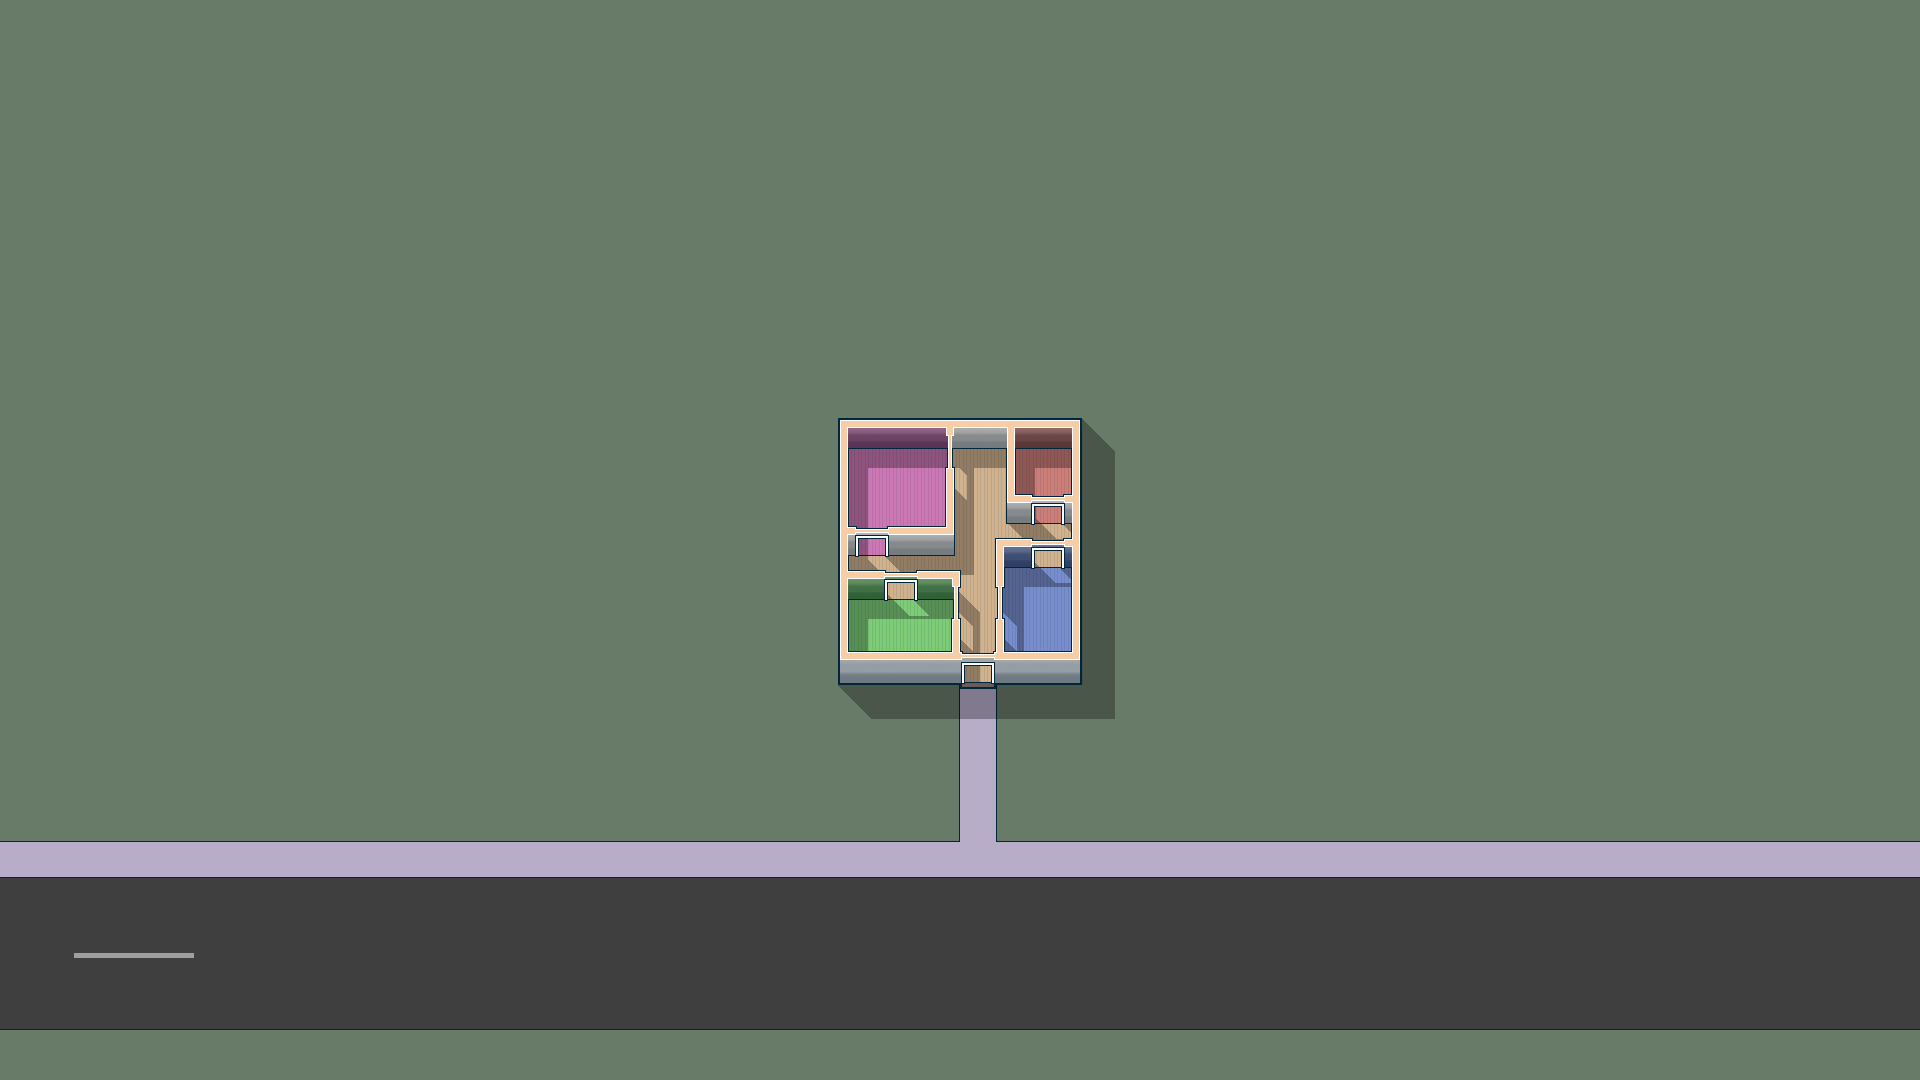
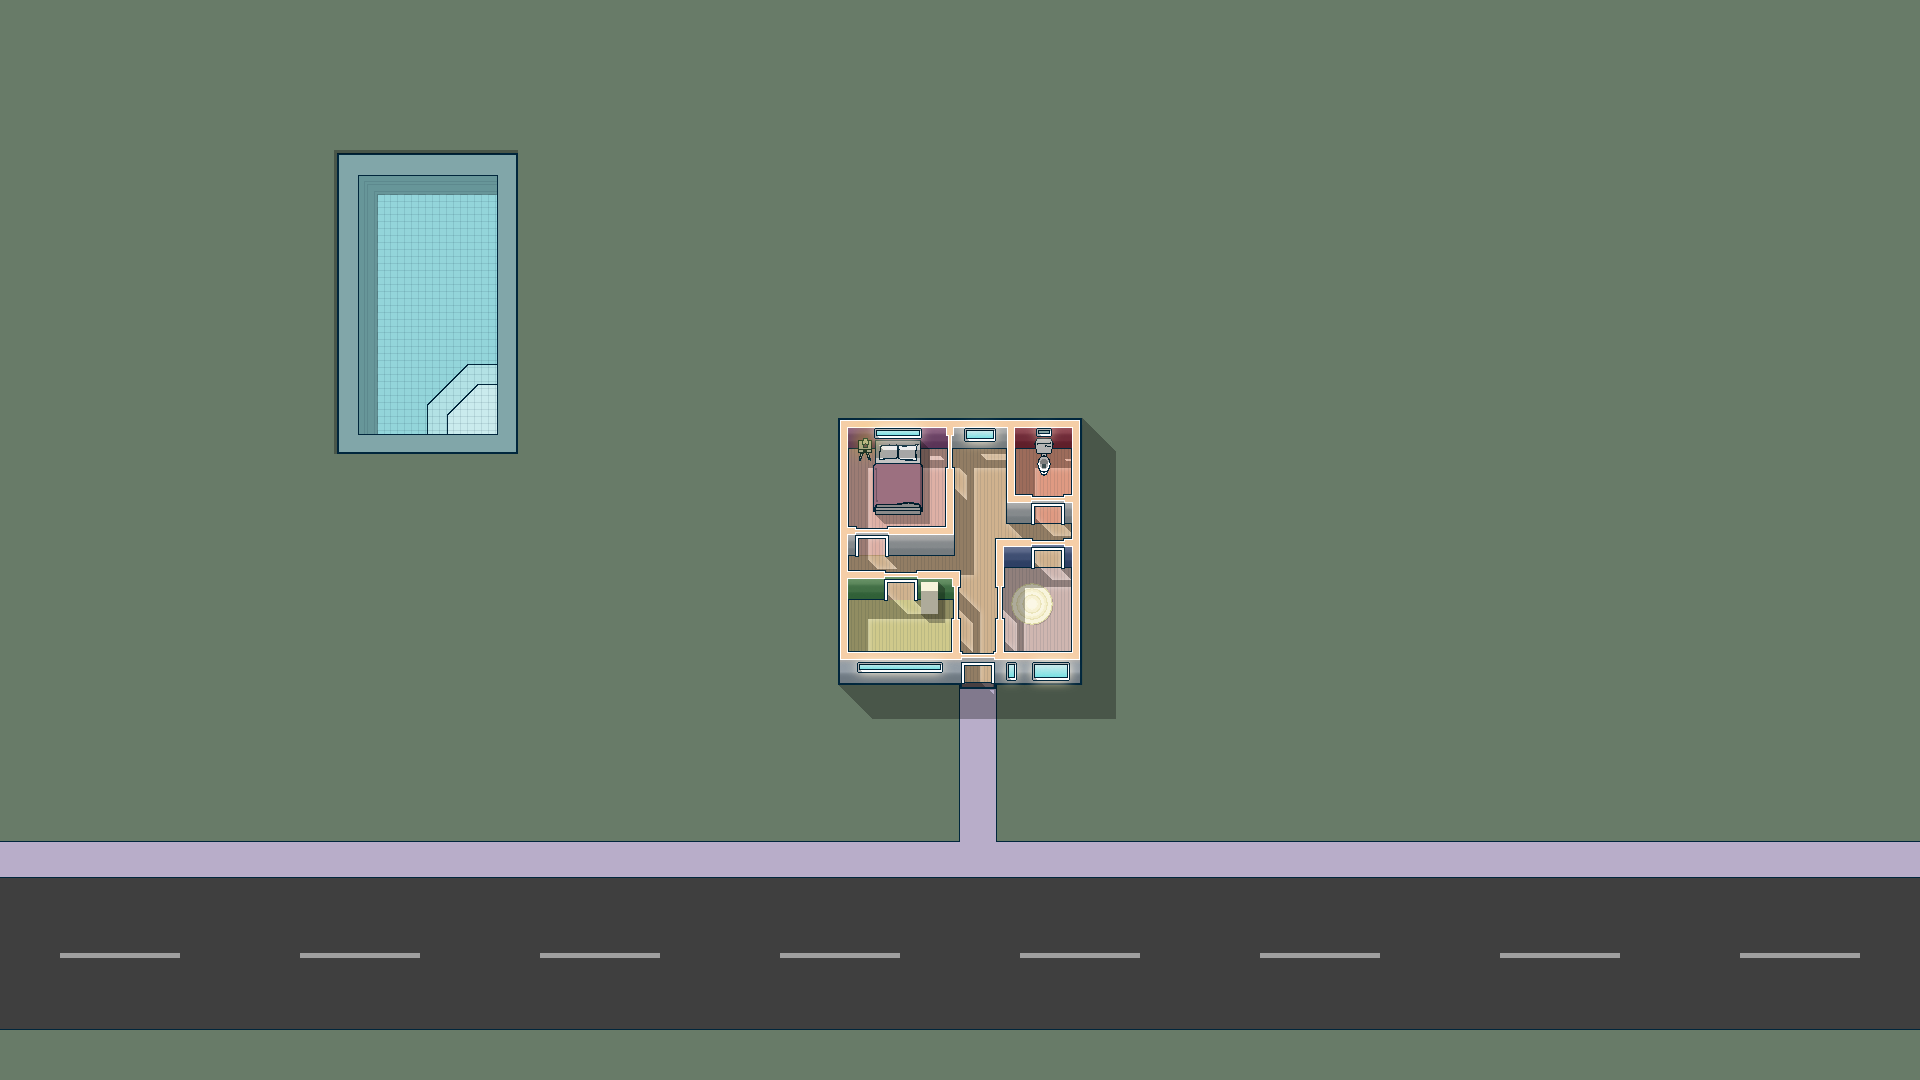
enemy gfx. don't move when controlling except oven, text stroke

diff --git a/src/scenes/game/player.ts b/src/scenes/game/player.ts
@@ -1,5 +1,5 @@
 import GameScene from "../gameScene";
-import { Control, WeaponControl } from "./control";
+import { Control, OvenControl, WeaponControl } from "./control";
 import { Depth } from "./depth";
 import { Stat } from "./stat";
 import { StatBar } from "./statBar";
@@ -12,7 +12,7 @@ export class Player {
 	fun = new Stat(0.01);
 	energy = new Stat(0.01);
 	toilet = new Stat(0.01);
-	stats = [this.antiHunger, this.fun, this.energy, this.toilet];
+	stats = [this.energy, this.antiHunger, this.fun, this.toilet];
 	statBars: StatBar[];
 
 	onControl: Control | null = null;
@@ -62,12 +62,15 @@ export class Player {
 		this.body.restitution = 1;
 
 
-		this.warningLabel = scene.add.text(x, y, 'Hungry Bored Tired Poopy', { color: 'red', fontSize: '20px', fontFamily: 'Hellovetica' }).setOrigin(0.5, 1.5).setDepth(Depth.UI);
+		this.warningLabel = scene.add.text(x, y, 'Hungry Bored Tired Poopy', { color: 'white', fontSize: '20px', fontFamily: 'Hellovetica' })
+			.setStroke('#000', 4)
+			.setOrigin(0.5, 1.5)
+			.setDepth(Depth.UI);
 
 		this.statBars = [
-			new StatBar(scene, 'Hunger', this.antiHunger, statPosX, statPosY),
-			new StatBar(scene, 'Fun', this.fun, statPosX, statPosY + 40),
-			new StatBar(scene, 'Energy', this.energy, statPosX, statPosY + 80),
+			new StatBar(scene, 'Energy', this.energy, statPosX, statPosY),
+			new StatBar(scene, 'Hunger', this.antiHunger, statPosX, statPosY + 40),
+			new StatBar(scene, 'Fun', this.fun, statPosX, statPosY + 80),
 			new StatBar(scene, 'Toilet', this.toilet, statPosX, statPosY + 120),
 		];
 	}
@@ -87,6 +90,13 @@ export class Player {
 		this.warningLabel.text = warning.join(' ');
 		this.warningLabel.x = this.image.x;
 		this.warningLabel.y = this.image.y;
+
+		//Damage energy if other stats are low
+		for (let i = 1; i < this.stats.length; i++) {
+			if (this.stats[i].value == 0) {
+				this.energy.value -= delta / 10000;
+			}
+		}
 
 		const p = this.scene.input.gamepad?.getPad(this.playerNumber);
 		if (!p) return;
@@ -113,7 +123,10 @@ export class Player {
 				if (!this.onControl.playerUsingThis) {
 					this.onControl.playerUsingThis = this;
 					this.usingControl = this.onControl;
-					this.body.isStatic = true;
+
+					if (!(this.onControl instanceof OvenControl)) {
+						this.body.isStatic = true;
+					}
 				}
 			}
 		}

diff --git a/src/scenes/game/weapons.ts b/src/scenes/game/weapons.ts
@@ -166,7 +166,7 @@ export class LawnMower extends DamageWeapon {
 		this.image.setDepth(Depth.Weapon);
 		this.image.setCircle(20);
 		this.image.setCollisionCategory(scene.categoryLawnMower);
-		this.image.setCollidesWith([scene.categoryEnemy, scene.categoryWall, scene.categoryPlayer, scene.categoryTurret, scene.categoryBullet])
+		this.image.setCollidesWith([scene.categoryEnemy, scene.categoryWall, scene.categoryPlayer, scene.categoryTurret, scene.categoryBullet, scene.categoryPool])
 		//this.image.setDensity(0.0001);
 		this.body = <MatterJS.BodyType>this.image.body;
 
@@ -196,7 +196,7 @@ export class Pool extends DamageWeapon {
 
 	controller: PoolControl | null = null;
 
-	width = 100;
+	width = 180;
 	height = 300;
 
 	maxEnemiesInside = 10;
@@ -212,7 +212,7 @@ export class Pool extends DamageWeapon {
 			isStatic: true,
 			collisionFilter: {
 				category: scene.categoryPool,
-				mask: scene.categoryPlayer
+				mask: scene.categoryPlayer | scene.categoryLawnMower
 			}
 		});
 
@@ -231,7 +231,9 @@ export class Pool extends DamageWeapon {
 			this.hit((<any>pair.bodyB).enemy);
 		}
 
-		this.fullLabel = this.scene.add.text(x, y, 'Pool is full', { color: 'black', fontFamily: 'Hellovetica' }).setOrigin(0.5, 0.5).setDepth(Depth.UI);
+		this.fullLabel = this.scene.add.text(x, y, 'Pool is full', { color: 'white', fontFamily: 'Hellovetica' })
+			.setStroke('#000', 4)
+			.setOrigin(0.5, 0.5).setDepth(Depth.UI);
 		this.scene.tweens.add({
 			loop: -1,
 			targets: this.fullLabel,

diff --git a/src/scenes/gameScene.ts b/src/scenes/gameScene.ts
@@ -38,6 +38,7 @@ export default class GameScene extends Phaser.Scene {
 
 		this.load.image('house', 'assets/images/house.png');
 		this.load.spritesheet('oven', 'assets/images/oven.png', { frameWidth: 40, frameHeight: 40 });
+		this.load.spritesheet('enemy', 'assets/images/enemy2.png', { frameWidth: 44, frameHeight: 65, endFrame: 8 });
 
 		// load static assets from url
 		//this.load.image('sky', 'https://labs.phaser.io/assets/skies/space3.png');
@@ -64,7 +65,7 @@ export default class GameScene extends Phaser.Scene {
 		this.house = new House(this);
 
 		this.controls.push(new Toilet(this, 1920 / 2 + 84, 1080 / 2 - 80, 50, 40));
-		this.controls.push(new Bed(this, 1920 / 2 - 80, 1080 / 2 - 60, 50, 50));
+		this.controls.push(new Bed(this, 1920 / 2 - 60, 1080 / 2 - 60, 50, 50));
 		this.controls.push(new Kitchen(this, 1920 / 2 - 50, 1080 / 2 + 90, 80, 40));
 		this.controls.push(new TV(this, 1920 / 2 + 80, 1080 / 2 + 80, 50, 50));
 
@@ -86,9 +87,9 @@ export default class GameScene extends Phaser.Scene {
 		this.controls.push(new OvenControl(this, 1000, 500, 50, oven));
 
 
-		let pool = new Pool(this, 200, 500);
+		let pool = new Pool(this, 430, 300);
 		this.weapons.push(pool);
-		this.controls.push(new PoolControl(this, 200, 500, pool.width + 100, pool.height + 100, pool));
+		this.controls.push(new PoolControl(this, 430, 300, pool.width + 100, pool.height + 100, pool));
 	}
 
 	update(time: number, delta: number): void {

diff --git a/src/scenes/game/enemy.ts b/src/scenes/game/enemy.ts
@@ -4,10 +4,15 @@ import { Depth } from "./depth";
 export class Enemy {
 	image: Phaser.Physics.Matter.Image;
 	body: MatterJS.BodyType;
+
+	animOffset = Math.random() * 1000;
+
 	constructor(private scene: GameScene, x: number, y: number) {
-		this.image = scene.matter.add.image(x, y, 'enemy');
+		this.image = scene.matter.add.sprite(x, y, 'enemy', 0);
 		this.image.setDepth(Depth.Enemy);
-		this.image.setCircle(10);
+		this.image.setRectangle(18, 40);
+		this.image.setOrigin(.5, .6);
+		this.image.setFixedRotation();
 		this.image.setCollisionCategory(scene.categoryEnemy);
 		this.body = <MatterJS.BodyType>this.image.body;
 
@@ -25,6 +30,14 @@ export class Enemy {
 		//otherwise walk towards the center of the screen
 		let force = new Phaser.Math.Vector2(1920 / 2, 1080 / 2).subtract({ x: this.image.x, y: this.image.y }).normalize().scale(0.0003);
 		this.image.applyForce(force);
+
+		this.image.setFrame(Math.floor((this.animOffset + time) / 130) % 8);
+		if (this.body.velocity.x < 0)
+			this.image.setFlipX(true);
+		else
+			this.image.setFlipX(false);
+
+		this.image.setDepth(Depth.Enemy + this.image.y / 1080);
 	}
 
 	receiveHitFromWeapon(weapon: any): void {

diff --git a/src/scenes/game/statBar.ts b/src/scenes/game/statBar.ts
@@ -21,7 +21,9 @@ export class StatBar {
 		this.gfx.fillRect(0, 0, 200 - 2, 20 - 2);
 		this.gfx.setPosition(x + 1, y + 1);
 
-		scene.add.text(x, y, name, { fontSize: '14px', color: '#000', fontFamily: 'Hellovetica' }).setDepth(Depth.UI);
+		scene.add.text(x, y, name, { fontSize: '14px', color: '#fff', fontFamily: 'Hellovetica' })
+			.setStroke('#000', 4)
+			.setDepth(Depth.UI);
 	}
 
 	update(time: number, delta: number): void {
@@ -49,7 +51,10 @@ export class HouseHealthStatBar {
 		this.gfx.fillRect(0, 0, w - 4, h - 4);
 		this.gfx.setPosition((1920 - w + 4) / 2, 40 + 2);
 
-		scene.add.text(1920 / 2 - 40, 44, "House", { fontSize: '20px', color: '#000', fontFamily: 'Hellovetica' }).setDepth(Depth.UI);
+		scene.add.text(1920 / 2, 44, "Flat Health", { fontSize: '20px', color: '#fff', fontFamily: 'Hellovetica' })
+			.setStroke('#000', 4)
+			.setOrigin(0.5, 0)
+			.setDepth(Depth.UI);
 	}
 
 	update(time: number, delta: number): void {

diff --git a/src/scenes/game/control.ts b/src/scenes/game/control.ts
@@ -204,12 +204,13 @@ export class OvenControl extends WeaponControl {
 		this.sensor.position.x = this.oven.image.x;
 		this.sensor.position.y = this.oven.image.y;
 
+		//make player follow
 		if (this.playerUsingThis) {
 			let pp = new Phaser.Math.Vector2(this.playerUsingThis.image.x, this.playerUsingThis.image.y);
 			let op = new Phaser.Math.Vector2(this.oven.image.x, this.oven.image.y);
 
 			if (pp.distance(op) > 40) {
-				this.playerUsingThis.image.applyForce(op.subtract(pp).normalize().scale(0.001));
+				this.playerUsingThis.image.applyForce(op.subtract(pp).normalize().scale(0.0015));
 			}
 		}
 	}
